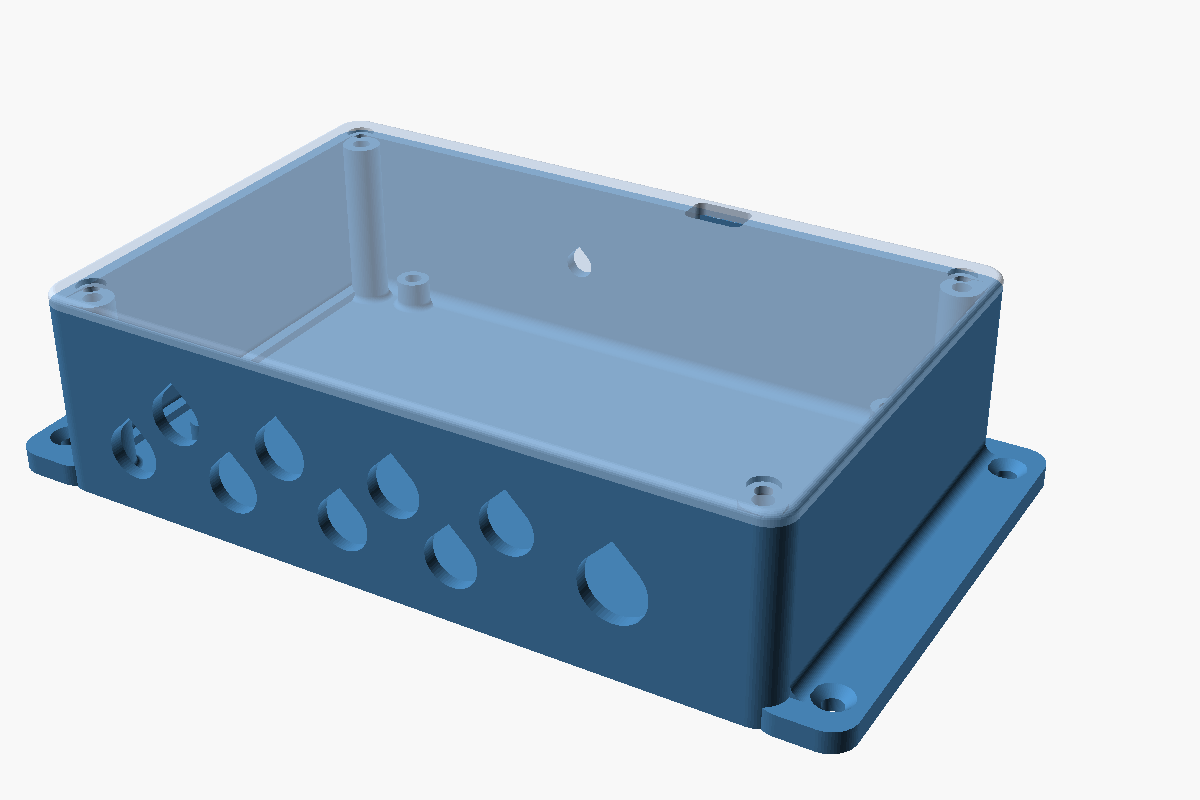
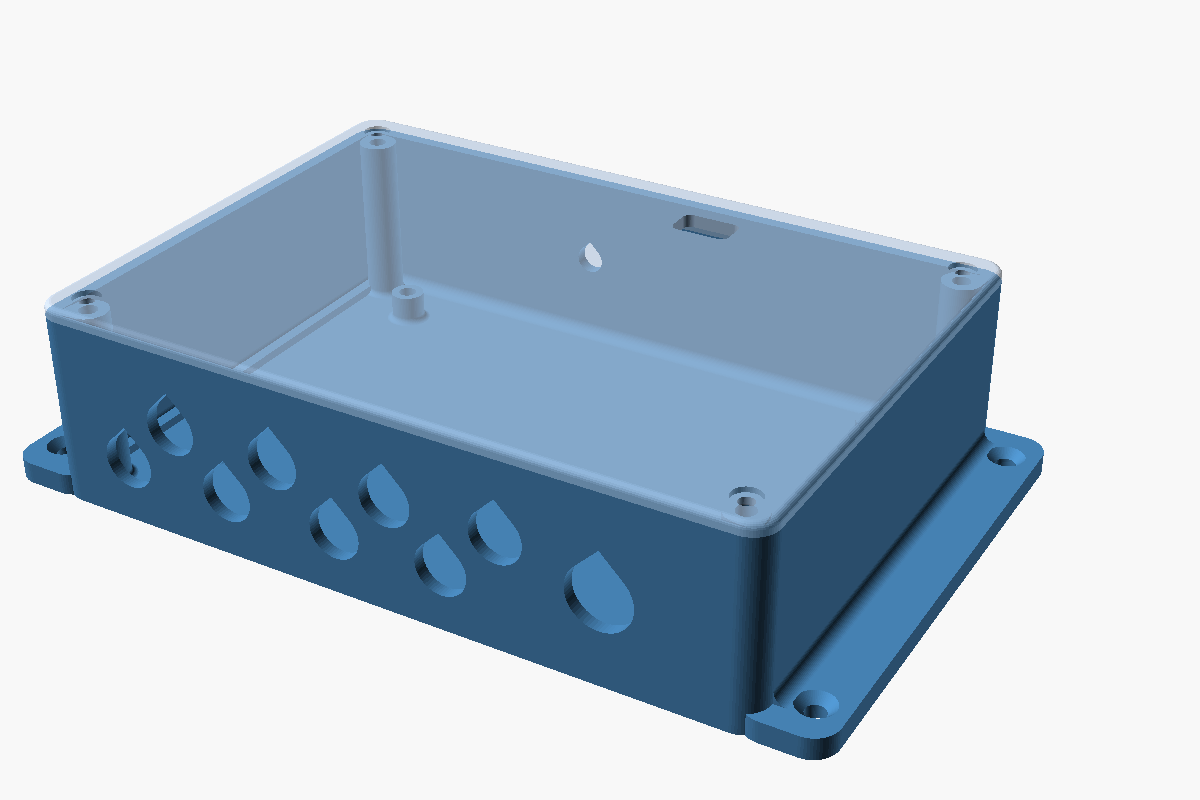
Use measured E8 hole pattern and add antenna room behind the board
The four mounting holes sit on a 127 x 77 mm rectangle and all take a
screw, so the locating pin is gone. A 10 mm back_bay moves the board
away from the top wall to make room for the antenna lead.

Claude-Session: https://claude.ai/code/session_01PuoFiuiACJXNWaBRiLi4Zd

diff --git a/examples/enclosure/README.md b/examples/enclosure/README.md
@@ -11,9 +11,9 @@ in OpenSCAD, set `part`, press F6 and export the STL.
 
 | | |
 |---|---|
-| Outside, without flanges | 171 × 111 × 47 mm |
-| Footprint with flanges | 199 × 111 mm |
-| Cavity | 165 × 105 × 41 mm |
+| Outside, without flanges | 171 × 121 × 47 mm |
+| Footprint with flanges | 199 × 121 mm |
+| Cavity | 165 × 115 × 41 mm |
 
 ## Layout
 
@@ -23,10 +23,11 @@ Positions come from the vendor's *Board Dimensions* photo of a V1.02 board, scal
 - **Front wall:** two staggered M12 glands per output block, right in front of it. The lower
   gland feeds the block's lower (even) output and the upper gland its upper (odd) output.
   The M16 power gland sits in front of X5 at the right.
-- **Back wall:** the antenna hole, behind the ESP32's u.FL socket.
+- **Back wall:** the antenna hole, behind the ESP32's u.FL socket. The board sits 11 mm
+  clear of this wall (`back_bay`) so the antenna lead has room to route.
 - **Lid:** a window over the vertical USB-C at the back edge.
-- **Standoffs:** three take heat-set inserts. The front-left hole sits under the corner of
-  the X1 block where no screw head fits, so it gets a locating pin instead.
+- **Standoffs:** four, each with a heat-set insert, on the board's 127 × 77 mm hole rectangle
+  (measured on a real board).
 - `outputs_used` drops the holes for outputs a board doesn't drive. Rack 1's second board
   only uses 6.
 
@@ -37,26 +38,20 @@ calipers is worth it for these:
 
 | Parameter | Default | What to check |
 |---|---|---|
-| `board_holes` | (2.5, 3.0) (133, 3.3) (2.5, 82.3) (130.5, 82.3) | Hole centres from the front-left corner |
-| `board_hole_d` | 3.2 mm | Hole size, which sets the locating pin |
 | `block_x`, `power_x` | 10.2 / 36.7 / 64.2 / 89.9, 119.2 mm | Centre of X1–X4 (the D pin) and of X5 |
 | `usb_x`, `usb_y` | 87.0, 82.0 mm | USB-C centre |
 | `board_comp_h` | 24.4 mm | Tallest part above the PCB (the fuses or the terminals) |
 
-Two things the photo can't settle:
-
-- The back-right screw head (5.5 mm) sits about 1 mm from the X6 terminal block. If it
-  doesn't fit, switch that hole to `"pin"` as well.
-- The gland rows sit about 3 mm and 15 mm above the PCB (`lower_z`, `upper_z`). Measure how
-  high the two wire entries of a block are and move the rows to match, so each cable runs
-  straight in.
+One thing the photo can't settle: the gland rows sit about 3 mm and 15 mm above the PCB
+(`lower_z`, `upper_z`). Measure how high the two wire entries of a block are and move the
+rows to match, so each cable runs straight in.
 
 ## Hardware per enclosure
 
 | Item | Qty |
 |---|---|
-| M3 heat-set insert, 4.0–4.2 mm OD, 4–5 mm long | 7 |
-| M3 × 6 screw, board to standoffs | 3 |
+| M3 heat-set insert, 4.0–4.2 mm OD, 4–5 mm long | 8 |
+| M3 × 6 screw, board to standoffs | 4 |
 | M3 × 8 screw, lid | 4 |
 | M12 × 1.5 cable gland (3–6.5 mm cable) | up to 8, one per output in use |
 | M16 × 1.5 cable gland | 1, power in |
